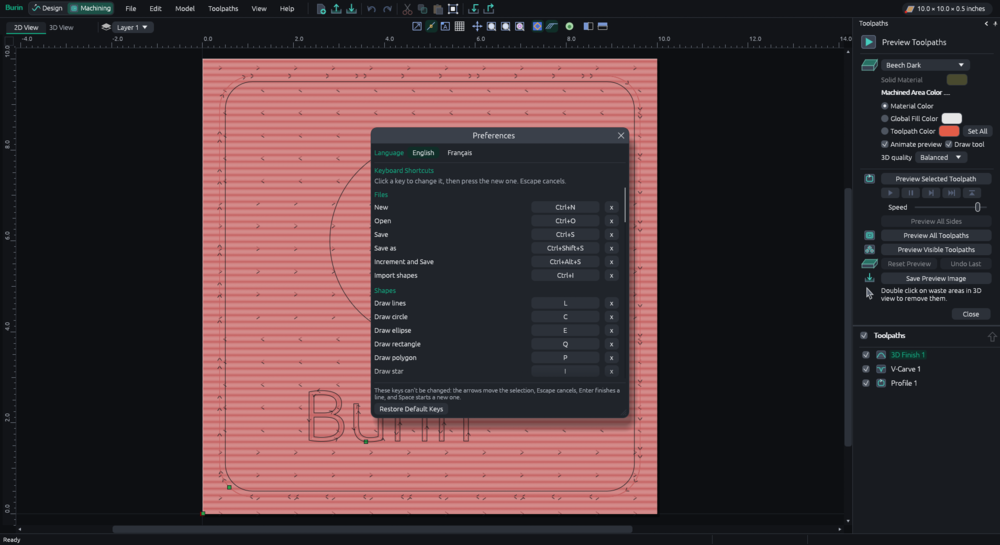
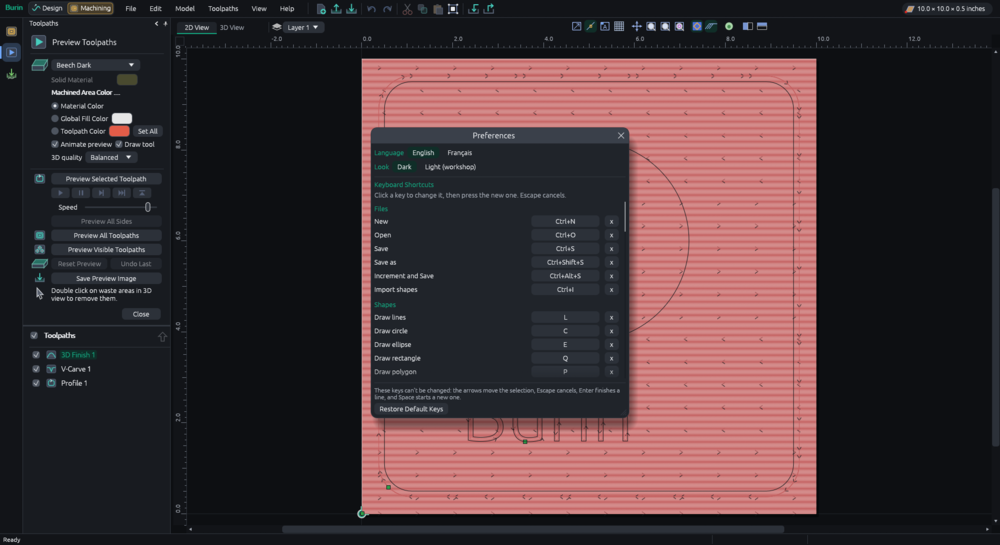
README and pictures: the new look, the command search, the selection card, the models

diff --git a/README.fr.md b/README.fr.md
@@ -29,7 +29,8 @@ Linux · Windows · Navigateur · Français · English
 
 | | |
 |---|---|
-| **Espaces de travail** | Deux, au choix en haut à gauche : **Dessin** pour dessiner et modeler, **Usinage** pour les parcours, l'aperçu et les fichiers machine. Chacun ne montre que ses panneaux, et Burin passe au bon quand vous ouvrez quelque chose de l'autre |
+| **Espaces de travail** | Deux, au choix en haut à gauche : **Dessin** pour dessiner et modeler, **Usinage** pour les parcours, l'aperçu et les fichiers machine. Chacun garde son panneau à gauche, ouvert depuis une bande d'icônes le long de la fenêtre, et Burin passe au bon quand vous ouvrez quelque chose de l'autre |
+| **Se repérer** | Une apparence claire « atelier » ou sombre ; une couleur par famille d'outils ; **Ctrl+K** pour trouver une commande par son nom ; une fiche avec la position, la taille et le calque de la sélection, à modifier directement ; un écran d'accueil avec les dessins des projets récents et des modèles de départ (plaque à graver, sous-verre, petite boîte) |
 | **Dessiner** | Lignes, courbes, arcs, cercles, ellipses, rectangles, polygones, étoiles, spirales, texte (polices de l'ordinateur, gras, italique, alignement, et polices à trait unique pour la gravure), cotes, contraintes d'esquisse |
 | **Modifier** | Déplacer, tourner et redimensionner à la souris (avec une valeur exacte tapée au clavier), décaler, souder, couper, aligner, copier en série, lisser les tracés |
 | **Organiser** | Calques, groupes, **pièces** (on sélectionne un seul trou sans rien dégrouper, mais la pièce se déplace d'un bloc), **plusieurs plaques** par travail, imbrication qui ajoute des plaques et peut tourner les pièces |
@@ -125,7 +126,7 @@ figurent jamais.
 
 ## Ce qui manque encore
 
-- **Essais réels :** rien n'a été vérifié sur une machine.
+- **Essais réels :** seuls quelques travaux (contours et poche) ont été usinés sur une vraie machine pour l'instant. Vérifiez chaque fichier avant d'usiner.
 - **Menus :** une trentaine d'entrées restent grisées, surtout des outils de modélisation 3D et des vues
   (multi-faces, enroulée, vue colorée).
 - **Calculs :** les parcours ne sont pas toujours identiques à ceux enregistrés dans les projets `.crv3d`, notamment l'ordre de coupe et les

diff --git a/README.md b/README.md
@@ -28,7 +28,8 @@ Linux · Windows · Browser · English · Français
 
 | | |
 |---|---|
-| **Workspaces** | Two of them, switched from the top left: **Design** to draw and model, **Machining** for toolpaths, preview and machine files. Each shows only its own panels, and Burin goes to the right one when you open something of the other |
+| **Workspaces** | Two of them, switched from the top left: **Design** to draw and model, **Machining** for toolpaths, preview and machine files. Each keeps its panel on the left, opened from a strip of icons along the window's edge, and Burin goes to the right one when you open something of the other |
+| **Finding your way** | A light "workshop" look or a dark one; a colour for each family of tools; **Ctrl+K** to find any command by name; a card giving the selection's position, size and layer, typed in directly; a start screen with drawings of recent projects and models to start from (name plaque, coaster, small box) |
 | **Draw** | Lines, curves, arcs, circles, ellipses, rectangles, polygons, stars, spirals, text (the computer's fonts, bold, italic, alignment, and single-line fonts for engraving), dimensions, sketch constraints |
 | **Edit** | Move, rotate and resize with the mouse (or type an exact value), offset, weld, trim, align, array copies, smooth outlines |
 | **Organise** | Layers, groups, **pieces** (pick one hole without ungrouping, yet the piece moves as one), **several sheets** per job, nesting that adds sheets, turns parts, puts small parts in the holes of big ones, or fills an outline you choose |
@@ -133,7 +134,7 @@ names and the name of your home folder are never in it.
 
 ## Still missing
 
-- **Real tests:** nothing has been checked on a machine.
+- **Real tests:** only a few jobs (profiles and a pocket) have been cut on a real machine so far. Check every file before cutting.
 - **Menus:** some entries are still greyed out, mostly 3D modelling tools and views (coloured shaded
   view, wrapped rotary view).
 - **Results:** toolpaths are not always the same as those saved in `.crv3d` projects, notably the cutting order and pockets,
